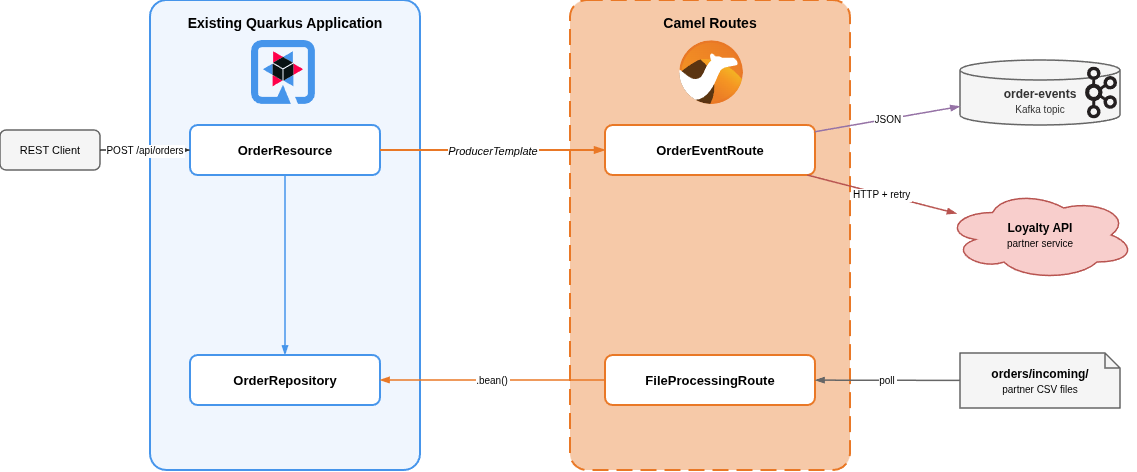
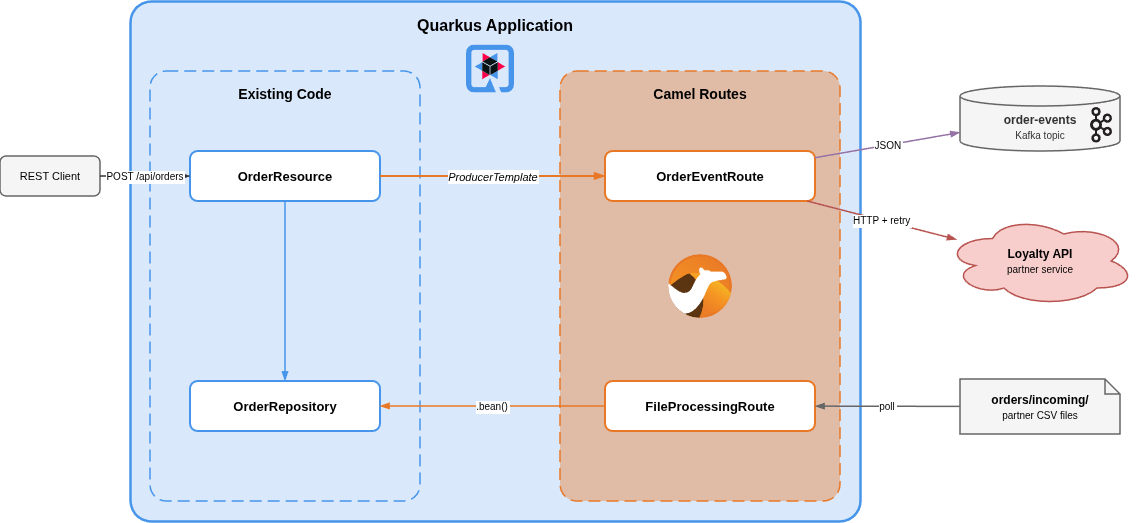
feedbacks from Torsten

diff --git a/extend-with-camel-quarkus/camel-quarkus-orders/src/main/java/org/acme/orders/FileProcessingRoute.java b/extend-with-camel-quarkus/camel-quarkus-orders/src/main/java/org/acme/orders/FileProcessingRoute.java
@@ -3,17 +3,22 @@ package org.acme.orders;
 import jakarta.enterprise.context.ApplicationScoped;
 
 import org.apache.camel.builder.RouteBuilder;
+import org.apache.camel.dataformat.csv.CsvDataFormat;
 
 @ApplicationScoped
 public class FileProcessingRoute extends RouteBuilder {
 
     @Override
     public void configure() {
+        CsvDataFormat csv = new CsvDataFormat();
+        csv.setSkipHeaderRecord(true);
+
         from("file:orders/incoming?include=.*\\.csv&move=../done&moveFailed=../failed&readLock=changed")
                 .routeId("file-ingestion")
                 .log("Processing file: ${header.CamelFileName}")
-                .bean("orderFileParser")
+                .unmarshal(csv)
                 .split(body())
+                    .bean("orderConverter")
                     .bean("orderRepository", "add")
                 .end()
                 .log("File processed: ${header.CamelFileName}");

diff --git a/extend-with-camel-quarkus/camel-quarkus-orders/src/main/java/org/acme/orders/OrderConverter.java b/extend-with-camel-quarkus/camel-quarkus-orders/src/main/java/org/acme/orders/OrderConverter.java
@@ -1,0 +1,20 @@
+package org.acme.orders;
+
+import java.math.BigDecimal;
+import java.util.List;
+
+import jakarta.enterprise.context.ApplicationScoped;
+import jakarta.inject.Named;
+
+@ApplicationScoped
+@Named("orderConverter")
+public class OrderConverter {
+
+    public Order fromCsvRow(List<String> row) {
+        return new Order(
+                row.get(0).trim(),
+                row.get(1).trim(),
+                row.get(2).trim(),
+                new BigDecimal(row.get(3).trim()));
+    }
+}

diff --git a/extend-with-camel-quarkus/index.md b/extend-with-camel-quarkus/index.md
@@ -73,7 +73,7 @@ You should get:
         "id": "ORD-001",
         "customer": "Acme Corp",
         "type": "priority",
-        "amount": 1500.00
+        "amount": 1500.0
     }
 ]
 ```
@@ -87,13 +87,15 @@ Add the Camel Quarkus extensions you'll need:
 ```shell
 quarkus ext add camel-quarkus-kafka camel-quarkus-jackson \
     camel-quarkus-http camel-quarkus-file camel-quarkus-bean \
-    camel-quarkus-direct
+    camel-quarkus-direct camel-quarkus-csv
 ```
 
 If you don't have the [Quarkus CLI](https://quarkus.io/guides/cli-tooling) you can add directly in your pom.xml:
 
 * the quarkus-camel-bom to <dependencyManagement> so versions are managed:
 ```xml
+<dependencyManagement>
+...
   <dependency>
       <groupId>io.quarkus.platform</groupId>
       <artifactId>quarkus-camel-bom</artifactId>
@@ -101,6 +103,8 @@ If you don't have the [Quarkus CLI](https://quarkus.io/guides/cli-tooling) you c
       <type>pom</type>
       <scope>import</scope>
   </dependency>
+...
+</dependencyManagement>
 ```
 * the dependencies:
 ```xml
@@ -127,6 +131,10 @@ If you don't have the [Quarkus CLI](https://quarkus.io/guides/cli-tooling) you c
   <dependency>
       <groupId>org.apache.camel.quarkus</groupId>
       <artifactId>camel-quarkus-jackson</artifactId>
+  </dependency>
+  <dependency>
+      <groupId>org.apache.camel.quarkus</groupId>
+      <artifactId>camel-quarkus-csv</artifactId>
   </dependency>
 ```
 
@@ -180,7 +188,7 @@ public class OrderResource {
 }
 ```
 
-`ProducerTemplate` is Camel's bridge from your existing code into a Camel route. In Camel Quarkus, it's automatically available as a CDI bean. You just need to `@Inject` it. The `sendBody` call pushes the order object into the `direct:order-placed` endpoint, which is the entry point of your Camel route.
+`ProducerTemplate` is Camel's bridge from your existing code into a Camel route. A *route* in Camel is a processing pipeline: it starts from an input (a URI like `direct:`, `kafka:`, or `file:`), applies a chain of steps (transformation, filtering, logging) and then sends the result to one or more outputs. Think of it as a method chain that wires together I/O and processing without the boilerplate. In Camel Quarkus, `ProducerTemplate` is automatically available as a CDI bean. You just need to `@Inject` it. The `sendBody` call pushes the order object into the `direct:order-placed` endpoint, which is the entry point of your Camel route.
 
 Here's that Camel route you need to add:
 
@@ -306,13 +314,17 @@ public class FileProcessingRoute extends RouteBuilder {
 
     @Override
     public void configure() {
+        CsvDataFormat csv = new CsvDataFormat();
+        csv.setSkipHeaderRecord(true);
+
         from("file:orders/incoming?include=.*\\.csv"
                 + "&move=../done&moveFailed=../failed"
                 + "&readLock=changed")
             .routeId("file-ingestion")
             .log("Processing file: ${header.CamelFileName}")
-            .bean("orderFileParser")
+            .unmarshal(csv)
             .split(body())
+                .bean("orderConverter")
                 .bean("orderRepository", "add")
             .end()
             .log("File processed: ${header.CamelFileName}");
@@ -320,32 +332,24 @@ public class FileProcessingRoute extends RouteBuilder {
 }
 ```
 
-The `file` component handles polling, read-locking (no partial reads), and move-on-success/failure through URI options. `orderRepository` is your existing CDI bean, referenced by name. For Camel to look up the bean by name, add `@Named("orderRepository")` to `OrderRepository`. `orderFileParser` is a small bean you add to parse the CSV lines.
+The `file` component handles polling, read-locking (no partial reads), and move-on-success/failure through URI options. Camel's built-in `CsvDataFormat` parses the file content into rows, skipping the header. After `split(body())`, each exchange carries one row as a `List<String>`. `orderConverter` is a small bean that maps each row to an `Order`:
 
-Here's a simple implementation:
 ```java
 @ApplicationScoped
-@Named("orderFileParser")
-public class OrderFileParser {
+@Named("orderConverter")
+public class OrderConverter {
 
-    public List<Order> parse(String csvContent) {
-        return csvContent.lines()
-                .skip(1)
-                .filter(line -> !line.isBlank())
-                .map(this::parseLine)
-                .toList();
-    }
-
-    private Order parseLine(String line) {
-        String[] parts = line.split(",", 4);
+    public Order fromCsvRow(List<String> row) {
         return new Order(
-                parts[0].trim(),
-                parts[1].trim(),
-                parts[2].trim(),
-                new BigDecimal(parts[3].trim()));
+                row.get(0).trim(),
+                row.get(1).trim(),
+                row.get(2).trim(),
+                new BigDecimal(row.get(3).trim()));
     }
 }
 ```
+
+`orderRepository` is your existing CDI bean, referenced by name. For Camel to look up the bean by name, add `@Named("orderRepository")` to `OrderRepository`.
 
 **Try it**, drop a CSV file and verify:
 
@@ -371,7 +375,7 @@ curl -s http://localhost:8080/api/orders
 
 You'll see the orders from the CSV file alongside any you created via the REST API. The original file has been moved to `orders/done/`. A malformed file would go to `orders/failed/` instead.
 
-**Extensions used:** `camel-quarkus-file`, `camel-quarkus-bean`
+**Extensions used:** `camel-quarkus-file`, `camel-quarkus-csv`, `camel-quarkus-bean`
 
 ## What changed in your existing code
 
@@ -381,10 +385,10 @@ Let's look into the changes. You added three integration capabilities: Kafka eve
 2. `producerTemplate.sendBody("direct:order-placed", order)` — one new call in `OrderResource`
 3. `@Named("orderRepository")` on `OrderRepository` — so Camel can look it up by name
 
-Everything else is new classes (`RouteBuilder`s, `OrderFileParser`) that live alongside your existing code. Nothing was rewritten. Nothing was removed. The file ingestion route didn't touch your REST layer at all.
+Everything else is new classes (`RouteBuilder`s, `OrderConverter`) that live alongside your existing code. Nothing was rewritten. Nothing was removed. The file ingestion route didn't touch your REST layer at all.
 
 **[Figure 2 — Data flow through the extended application]**
-![Data flow through the extended application](camel-quarkus-dataflow.png "Flow diagram showing two independent paths. Path 1: a REST POST request arrives → OrderResource persists the order → ProducerTemplate sends to direct:order-placed → Camel marshals to JSON → sends to the order-events Kafka topic → calls the loyalty HTTP API (with retry/backoff on failure). Path 2: a CSV file lands in orders/incoming/ → Camel file route picks it up (with read-lock) → orderFileParser parses rows → orderRepository persists each order → file moves to orders/done/ (or orders/failed/ on error). Both paths feed into the same OrderRepository, visible through the existing GET /api/orders endpoint.")
+![Data flow through the extended application](camel-quarkus-dataflow.png "Flow diagram showing two independent paths. Path 1: a REST POST request arrives → OrderResource persists the order → ProducerTemplate sends to direct:order-placed → Camel marshals to JSON → sends to the order-events Kafka topic → calls the loyalty HTTP API (with retry/backoff on failure). Path 2: a CSV file lands in orders/incoming/ → Camel file route picks it up (with read-lock) → CsvDataFormat parses rows → orderConverter maps each row to an Order → orderRepository persists each order → file moves to orders/done/ (or orders/failed/ on error). Both paths feed into the same OrderRepository, visible through the existing GET /api/orders endpoint.")
 
 ## Camel lives alongside your existing code
 

diff --git a/extend-with-camel-quarkus/README.md b/extend-with-camel-quarkus/README.md
@@ -22,7 +22,7 @@ Built with `quarkus-rest-jackson` and an in-memory `OrderRepository`.
 
 ### camel-quarkus-orders (after)
 
-The same application extended with six Camel Quarkus extensions:
+The same application extended with seven Camel Quarkus extensions:
 
 | Extension | Purpose |
 |---|---|
@@ -31,6 +31,7 @@ The same application extended with six Camel Quarkus extensions:
 | `camel-quarkus-jackson` | Marshal orders to JSON |
 | `camel-quarkus-http` | Call the Loyalty API |
 | `camel-quarkus-file` | Poll CSV files from `orders/incoming/` |
+| `camel-quarkus-csv` | Parse CSV file content into rows |
 | `camel-quarkus-bean` | Invoke CDI beans from routes |
 
 Two Camel routes are added:
